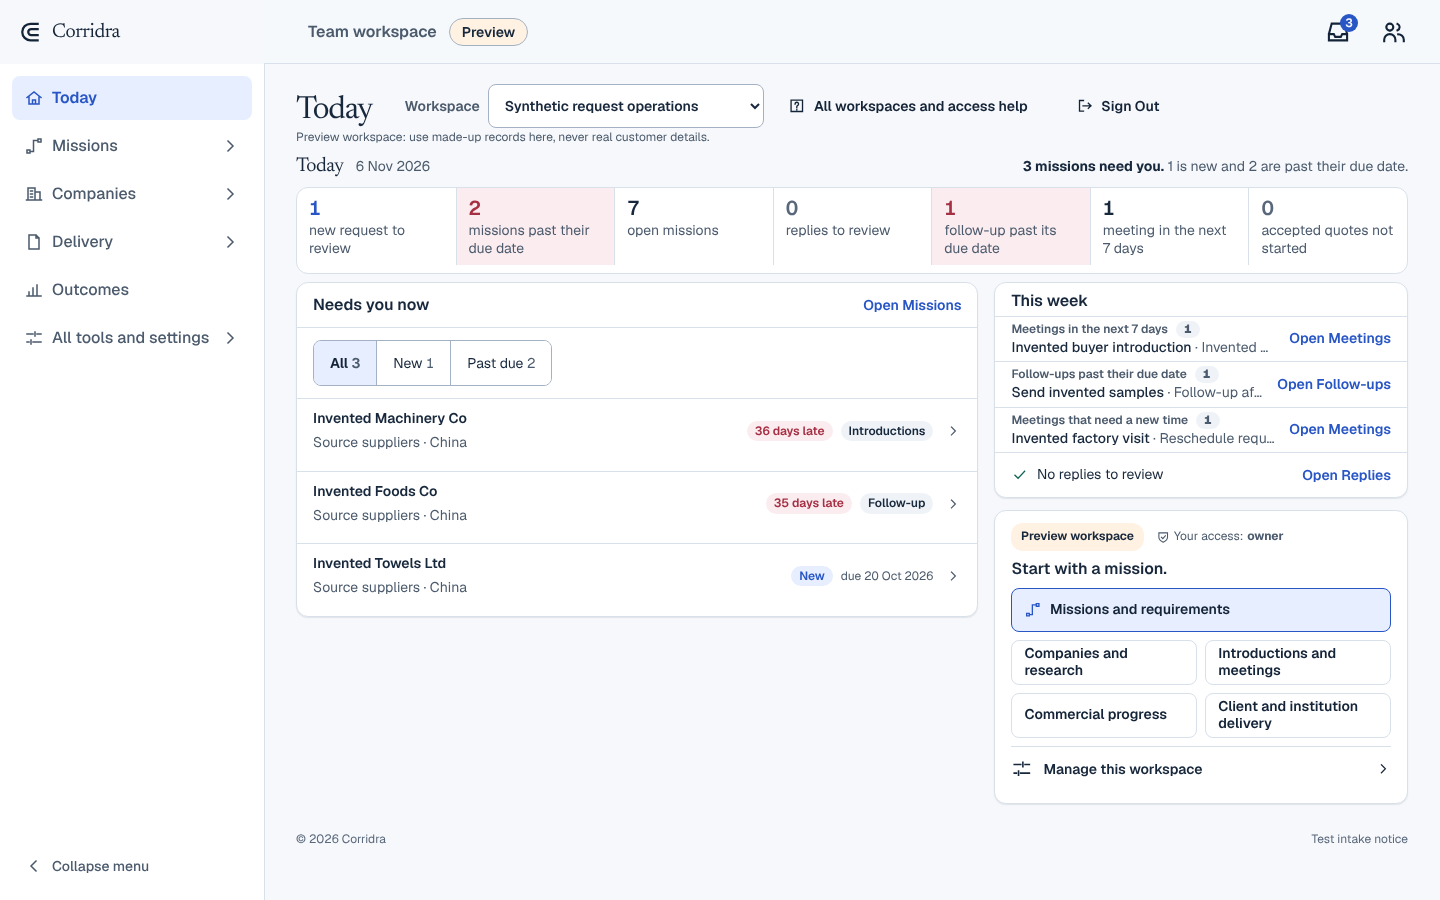
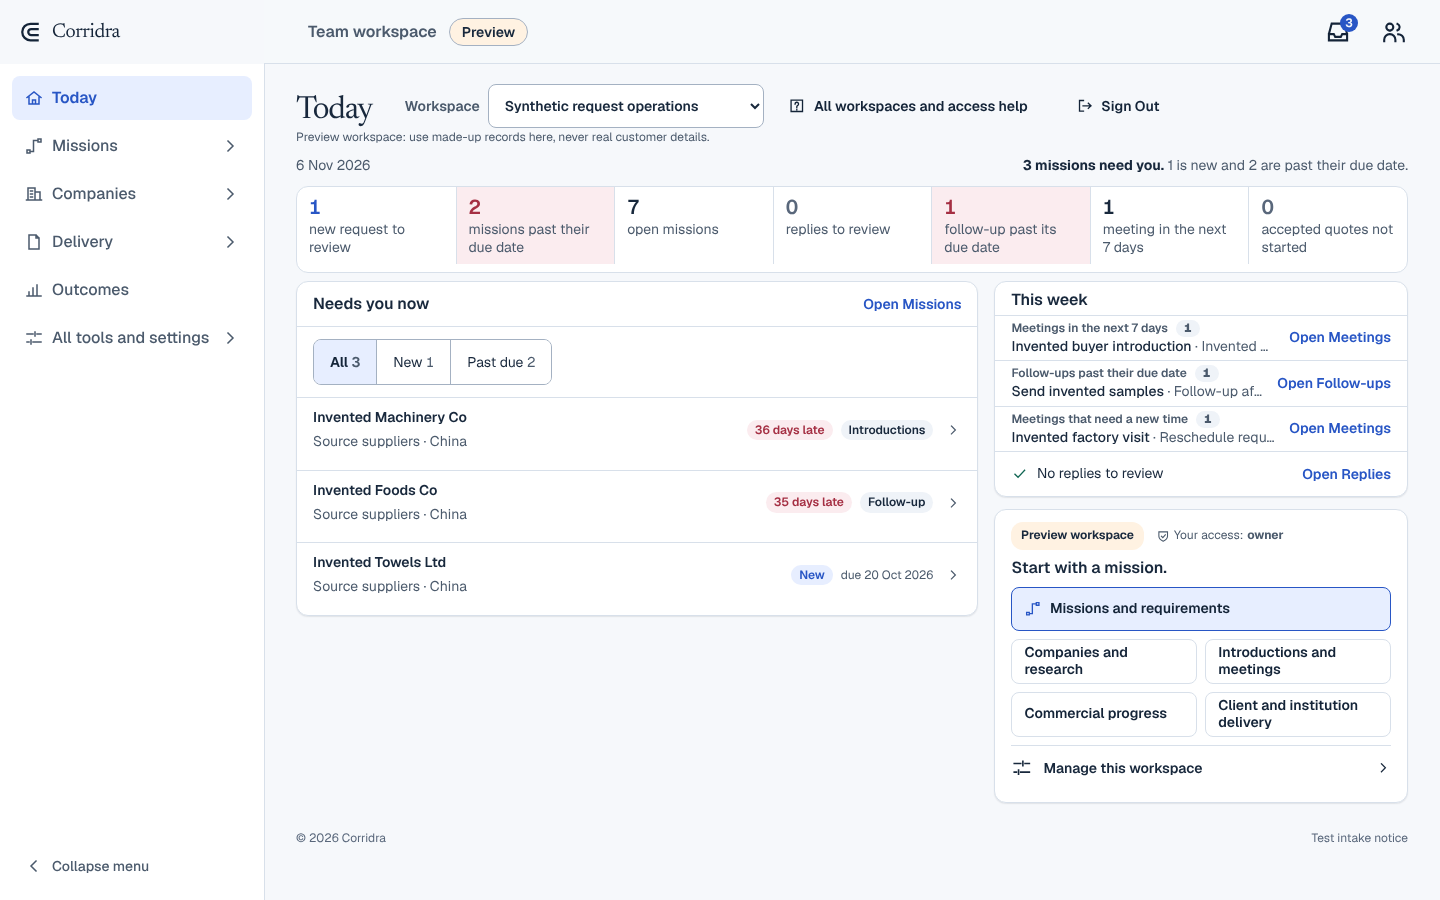
Team Today: show the Today heading once when the page title already says Today
The overview's page heading reads Today when the team shell and section addresses
are on, so the panel heading stays for screen readers only there. Screenshots
re-taken: 1.000 desktop and 1.969 phone screens.

Claude-Session: https://claude.ai/code/session_0187kU9qz8GGVRjUCwT2Mtof

diff --git a/tests/operator/team-today-fixture.ts b/tests/operator/team-today-fixture.ts
@@ -55,7 +55,7 @@ export async function startTodayFixture(root = resolve('.')) {
               <>
                 <AppHeader kind="team" live={false} notifications brandMark={<BrandMark/>}/>
                 <TeamFrame urls ownerPage={false}>
-                  <WorkspaceShell eyebrow="TEAM WORKSPACE" title="Today" className="ux-operator-home">
+                  <WorkspaceShell eyebrow="TEAM WORKSPACE" title="Today" className="ux-operator-home ux-titled-today">
                     {workspace}
                   </WorkspaceShell>
                 </TeamFrame>

diff --git a/apps/web/app/operator/operator-entry.tsx b/apps/web/app/operator/operator-entry.tsx
@@ -80,7 +80,8 @@ export async function OperatorEntry({
     <WorkspaceShell
       eyebrow={shellsV2 ? 'TEAM WORKSPACE' : 'OPERATOR WORKSPACE'}
       title={heading ?? 'Your workspace.'}
-      className="ux-operator-home"
+      // When the page heading already says Today, the Today panel keeps its heading for screen readers only.
+      className={heading === 'Today' ? 'ux-operator-home ux-titled-today' : 'ux-operator-home'}
     >
       <OperatorFlags replyReview={uxSwitchOn('CORRIDRA_REPLY_PAGE')}>
         <Workspace

diff --git a/apps/web/app/operator/operator-overview.css b/apps/web/app/operator/operator-overview.css
@@ -256,6 +256,15 @@
   font: 400 var(--text-xl) / 1.2 var(--serif);
   letter-spacing: -0.02em;
 }
+/* The page heading already reads Today: the panel heading stays in the outline but is not shown twice. */
+.ux-titled-today .ux-today .operator-today-heading h2 {
+  position: absolute;
+  width: 1px;
+  height: 1px;
+  overflow: hidden;
+  clip: rect(0 0 0 0);
+  white-space: nowrap;
+}
 .ux-operator-home .operator-today-heading time {
   color: var(--text-2);
   font-size: var(--text-sm);
